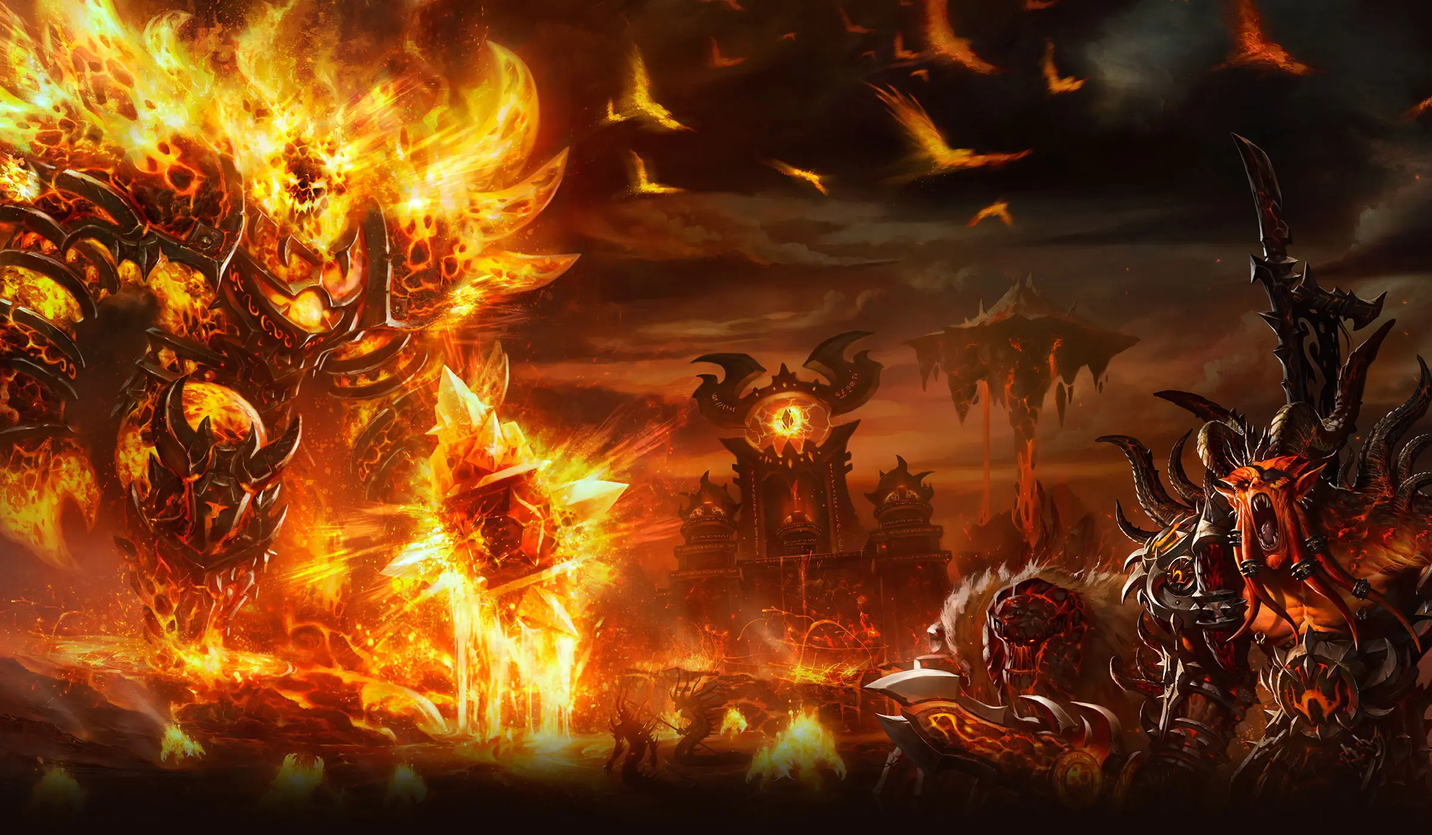
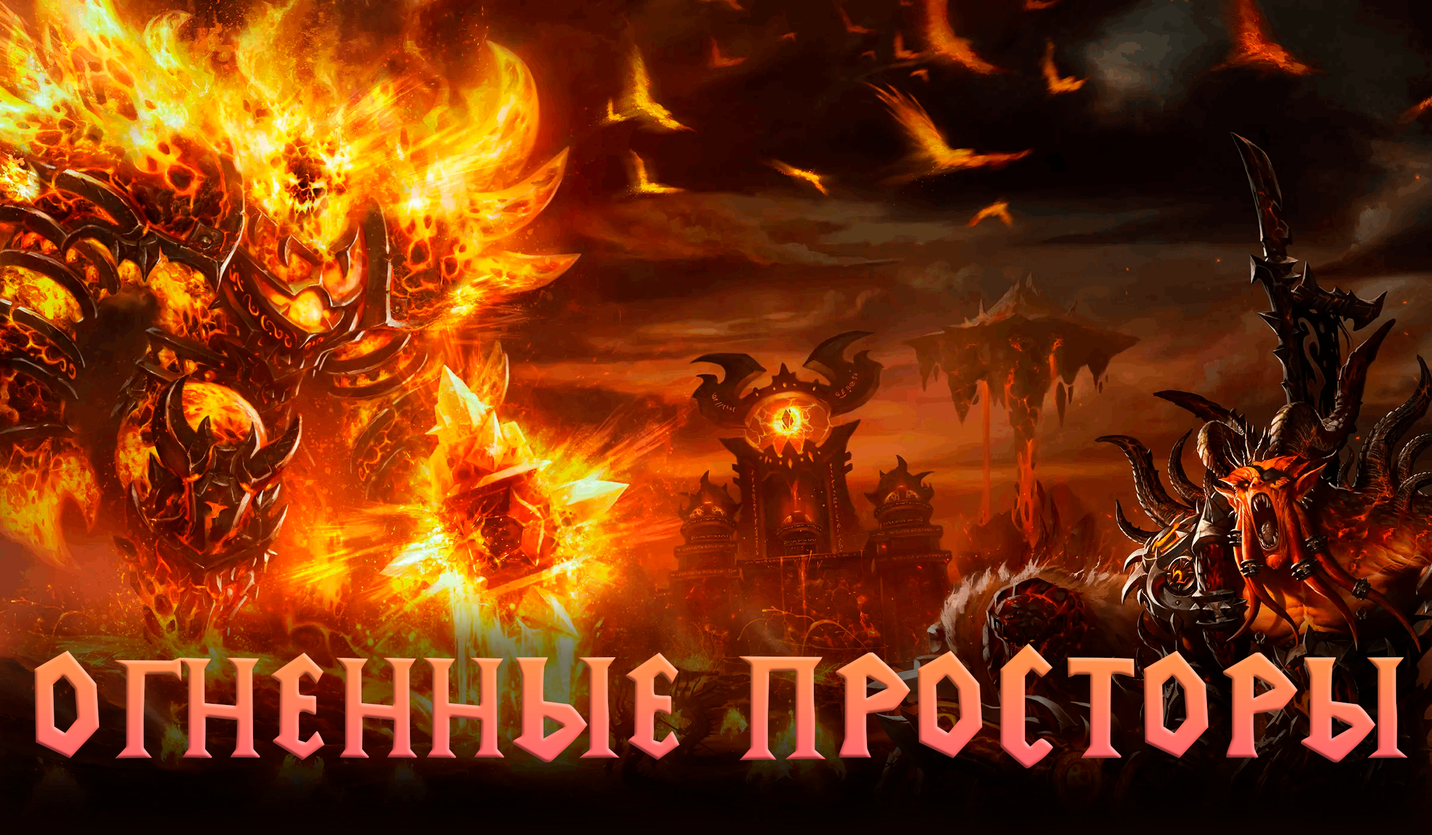
Картинки для огненных просторов

diff --git a/docs/fl/intro.md b/docs/fl/intro.md
@@ -5,6 +5,15 @@ description: Огненные просторы
 image: /img/fl/FL_intro.png
 ---
 
-## Огненные просторы
+<div className="text--center">
 
 ![wip](/img/fl/FL_intro.png)
+</div>
+
+<div className="text--center lore_text">
+<b>
+
+Обитель стихий столетиями служила надежной тюрьмой, где томились первобытные духи Азерота…. Однако глобальный Катаклизм высвободил их из заточения. Армия Рагнароса вероломно устремилась к Горе Хиджал с целью сжечь Нордрассил, Древо Мира. Многие герои отдали свои жизни, защищая Хиджал от разрушения. Благодаря их самоотверженности, Стражам Хиджала удалось сделать практически невозможное – вытеснить приспешников Рагнароса назад в Огненные Просторы. <br/><br/> Теперь битва за Хиджал переместилась в пылающую обитель Рагнароса.
+
+</b>
+</div>

diff --git a/docs/fl/Majordomo_Staghelm.md b/docs/fl/Majordomo_Staghelm.md
@@ -2,5 +2,10 @@
 sidebar_position: 7
 title: Мажордом Фэндрал Олений Шлем
 description: Описание и тактика на Фэндрала
-image: /img/fl/fendral/Fandral_Staghelm.jpg
+image: /img/fl/fendral/Fandral_Staghelm.png
 ---
+
+<div className="text--center">
+
+![Fedya](/img/fl/fendral/Fandral_Staghelm.png)
+</div>

diff --git a/docs/fl/Ragnaros.md b/docs/fl/Ragnaros.md
@@ -2,5 +2,10 @@
 sidebar_position: 8
 title: Рагнарос
 description: Описание и тактика на Рагнароса
-image: /img/fl/Rag/Ragnaros_the_Firelord.jpg
+image: /img/fl/Rag/Ragnaros_the_Firelord.png
 ---
+
+<div className="text--center">
+
+![Raga](/img/fl/Rag/Ragnaros_the_Firelord.png)
+</div>

diff --git a/docs/fl/Rhyolith.md b/docs/fl/Rhyolith.md
@@ -2,5 +2,10 @@
 sidebar_position: 3
 title: Повелитель Риолит
 description: Описание и тактика на Риолита
-image: /img/fl/LR/Lord_Rhyolith.jpg
+image: /img/fl/LR/Lord_Rhyolith.png
 ---
+
+<div className="text--center">
+
+![Riol](/img/fl/LR/Lord_Rhyolith.png)
+</div>

diff --git a/docs/fl/Bethtilac.md b/docs/fl/Bethtilac.md
@@ -2,5 +2,10 @@
 sidebar_position: 2
 title: Бет'тилак
 description: Описание и тактика на Бет'тилак
-image: /img/fl/Bethtilac/Bethtilac.jpg
+image: /img/fl/Bethtilac/Bethtilac.png
 ---
+
+<div className="text--center">
+
+![Bety](/img/fl/Bethtilac/Bethtilac.png)
+</div>

diff --git a/docs/fl/Alysrazor.md b/docs/fl/Alysrazor.md
@@ -2,5 +2,10 @@
 sidebar_position: 4
 title: Алисразор
 description: Описание и тактика на Алисразора
-image: /img/fl/Aly/Alysrazor.jpg
+image: /img/fl/Aly/Alysrazor.png
 ---
+
+<div className="text--center">
+
+![Aly](/img/fl/Aly/Alysrazor.png)
+</div>

diff --git a/docs/fl/Shannox.md b/docs/fl/Shannox.md
@@ -2,5 +2,10 @@
 sidebar_position: 5
 title: Шэннокс
 description: Описание и тактика на Шеннокса
-image: /img/fl/Shan/Shannox.jpg
+image: /img/fl/Shan/Shannox.png
 ---
+
+<div className="text--center">
+
+![Shan](/img/fl/Shan/Shannox.png)
+</div>

diff --git a/docs/fl/Baleroc.md b/docs/fl/Baleroc.md
@@ -2,5 +2,10 @@
 sidebar_position: 6
 title: Бейлрок
 description: Описание и тактика на Бейлрока
-image: /img/fl/Bal/Baleroc.jpg
+image: /img/fl/Bal/Baleroc.png
 ---
+
+<div className="text--center">
+
+![Bal](/img/fl/Bal/Baleroc.png)
+</div>
